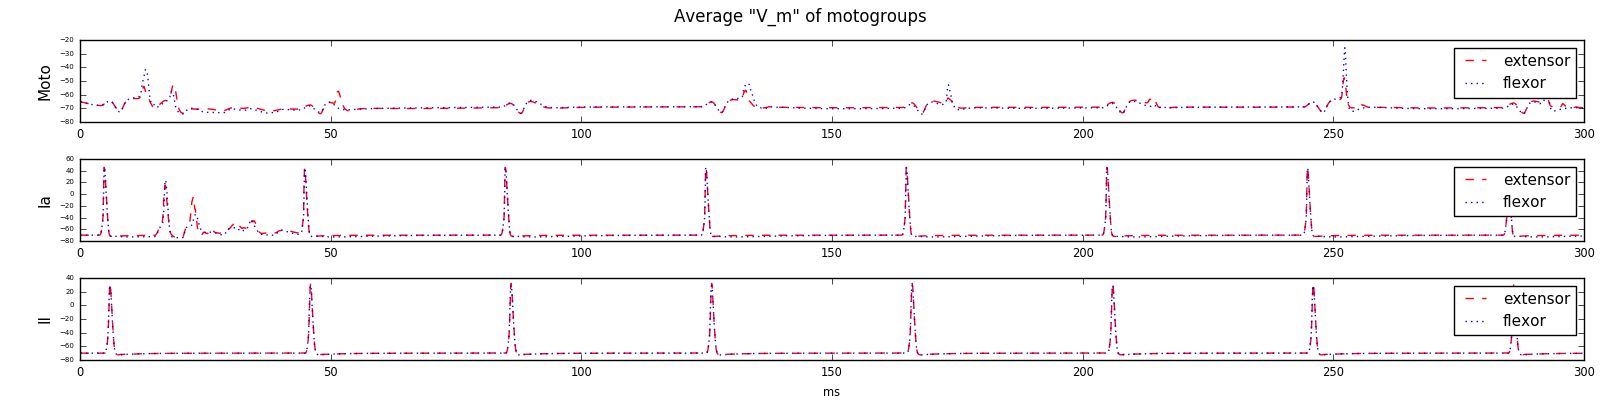
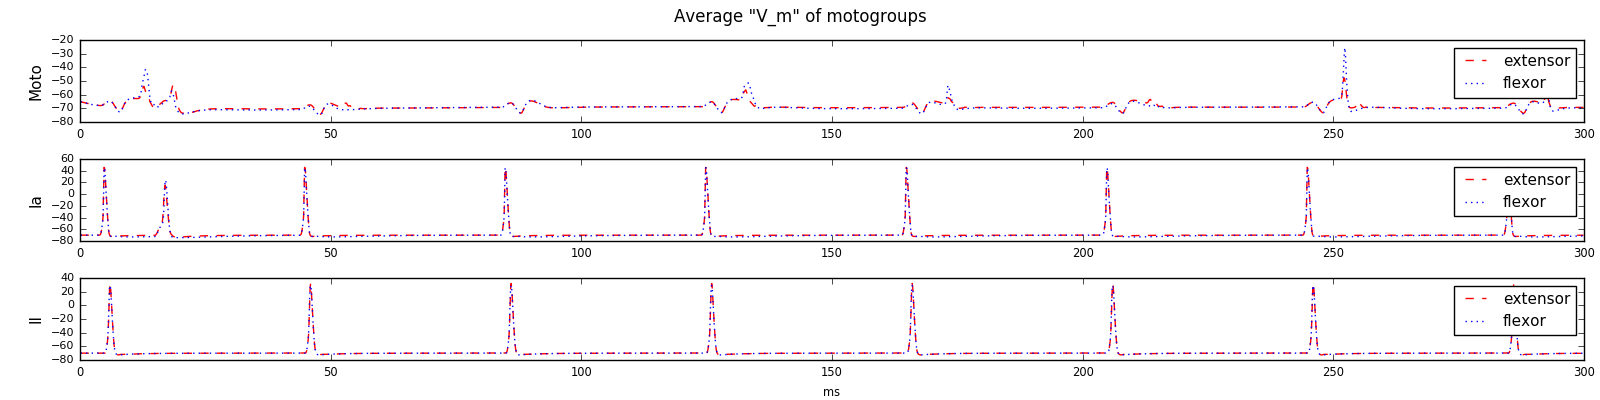
mistake with intertiers connections corrected, plotting parameters font changed

diff --git a/spinal_cord/toolkit/plotter.py b/spinal_cord/toolkit/plotter.py
@@ -24,7 +24,7 @@ class ResultsPlotter:
                   'axes.labelsize': 'x-small',
                   'axes.titlesize': 'x-small',
                   'xtick.labelsize': 'x-small',
-                  'ytick.labelsize': 5}
+                  'ytick.labelsize': 8}
         pylab.rcParams.update(params)
         self.rows_number = rows_number
         self.cols_number = 1

diff --git a/spinal_cord/polysynaptic_circuit/pc.py b/spinal_cord/polysynaptic_circuit/pc.py
@@ -18,7 +18,7 @@ class PolysynapticCircuit:
                 syn_spec={
                     'model': 'static_synapse',
                     'delay': 1.,
-                    'weight': Weights.e2e2.value
+                    'weight': Weights.e0e0.value
                 },
                 conn_spec={
                     'rule': 'one_to_one'

diff --git a/spinal_cord/weights.py b/spinal_cord/weights.py
@@ -17,8 +17,8 @@ class Weights(Enum):
 
     # Coonnections between tiers
 
-    e0e0 = 30.
-    e3e0 = 35.
+    e0e0 = 0.
+    e3e0 = 0.
     e2e2 = 100.
 
     # Connections to pool
